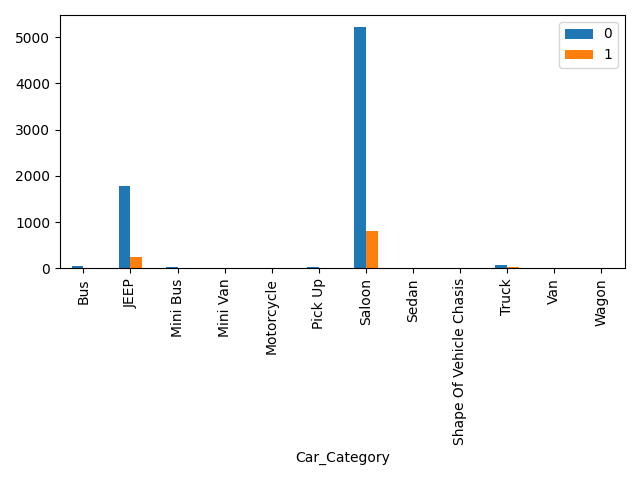
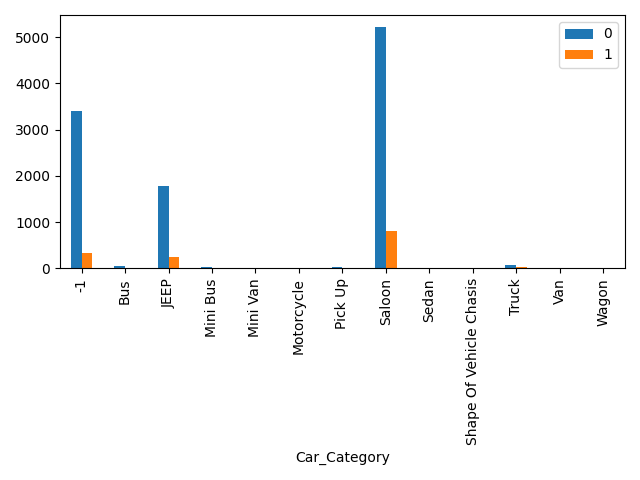
adding clean up code for all cols

diff --git a/modules/preprocessing.py b/modules/preprocessing.py
@@ -24,6 +24,9 @@ class Preprocessor:
     def fill_missing_values(self):
         self.clean_gender_col(self.preproc_args['missing']['gender'])
         self.clean_age_col(int(self.preproc_args['missing']['age']))
+        self.clean_color_col(self.preproc_args['missing']['color'])
+        self.clean_carmake_col()
+        self.clean_carcat_col()
         self.plot_graph()
 
 
@@ -47,10 +50,29 @@ class Preprocessor:
     def clean_age_col(self, replace_value):
         print('\nCleaning up Age Column')
         self.data['Age'] = self.data['Age'].apply(pd.to_numeric)
-        self.X['Age'] = self.X['Age'].apply(pd.to_numeric)
         self.data['Age'] = self.data['Age'].mask(self.data['Age'] < 0, replace_value)
-        self.X['Age'] = self.X['Age'].mask(self.X['Age'] < 0, replace_value)
+        self.data['Age'] = self.data['Age'].mask(self.data['Age'] > 120, 120)
         print('No of invalid ages: ',self.data[self.data['Age'] < 0]['Age'].shape)
+        self.X = self.data.drop(columns=['target','ID'])
+
+    def clean_color_col(self, color_mappings):
+        self.data['Subject_Car_Colour'] = self.data['Subject_Car_Colour'].str.replace(" ","")
+        self.data['Subject_Car_Colour'] = self.data['Subject_Car_Colour'].replace('AsAttached',-1)
+        self.data['Subject_Car_Colour'] = self.data['Subject_Car_Colour'].fillna(-1)
+
+        for color in color_mappings:
+            self.data['Subject_Car_Colour'] = self.data['Subject_Car_Colour'].replace(color, color_mappings[color])
+
+        self.X = self.data.drop(columns = ['target','ID'])
+
+    def clean_carmake_col(self):
+        self.data['Subject_Car_Make'] = self.data['Subject_Car_Make'].replace('.',np.nan)
+        self.data['Subject_Car_Make'] = self.data['Subject_Car_Make'].fillna(-1)
+        self.X = self.data.drop(columns = ['target','ID'])
+
+    def clean_carcat_col(self):
+        self.data['Car_Category'] = self.data['Car_Category'].fillna(-1)
+        self.X = self.data.drop(columns = ['target','ID'])
 
     def plot_graph(self):
         for col in self.data.columns:
